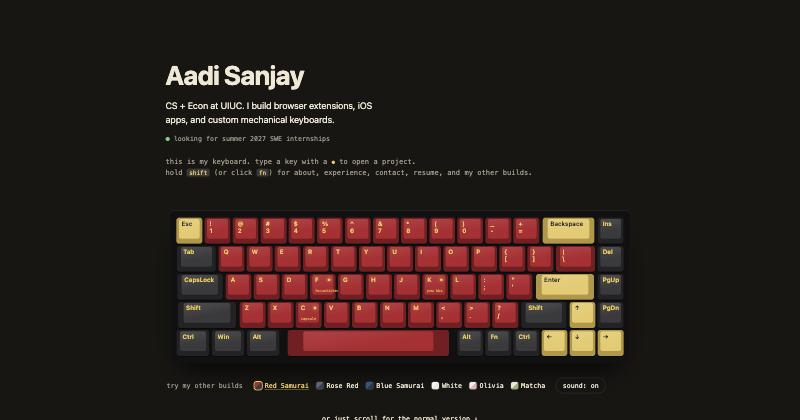
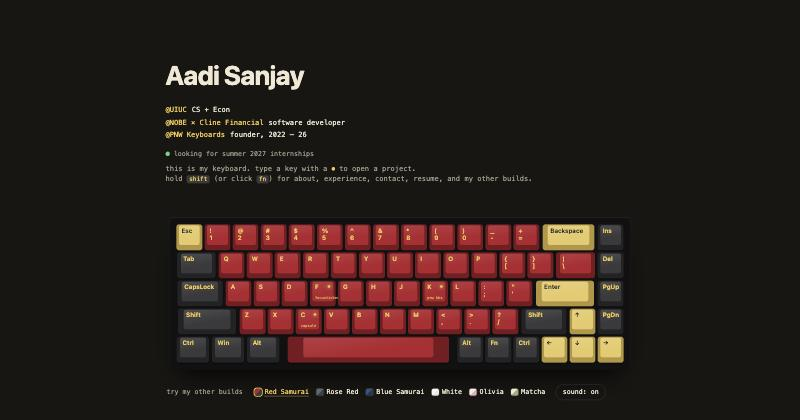
Blue Samurai gets gold accents; refresh link preview image

diff --git a/src/builds.js b/src/builds.js
@@ -49,15 +49,15 @@ export const builds = {
     switches: 'lubed linears',
     keycaps: 'Blue Samurai PBT',
     mods: ['lubed switches', 'lubed stabs', 'RGB'],
-    note: 'Deep blue with peach accents. Deeper than the red one.',
+    note: 'Deep blue with gold accents. Deeper than the red one.',
     link: SHOP,
     sound: { thump: 125, body: 1400 },
     samples: clips('blue-samurai', 6),
     colors: {
       case: '#121316',
-      alpha: '#23558c', alphaSide: '#153862', alphaInk: '#ece5d3',
-      mod: '#2c3647', modSide: '#1b2230', modInk: '#ece5d3',
-      accent: '#e2b494', accentSide: '#b38668', accentInk: '#2c2622',
+      alpha: '#23558c', alphaSide: '#153862', alphaInk: '#e3c065',
+      mod: '#2c3647', modSide: '#1b2230', modInk: '#e3c065',
+      accent: '#e3c065', accentSide: '#ad8f3f', accentInk: '#13294a',
     },
   },
   white: {
